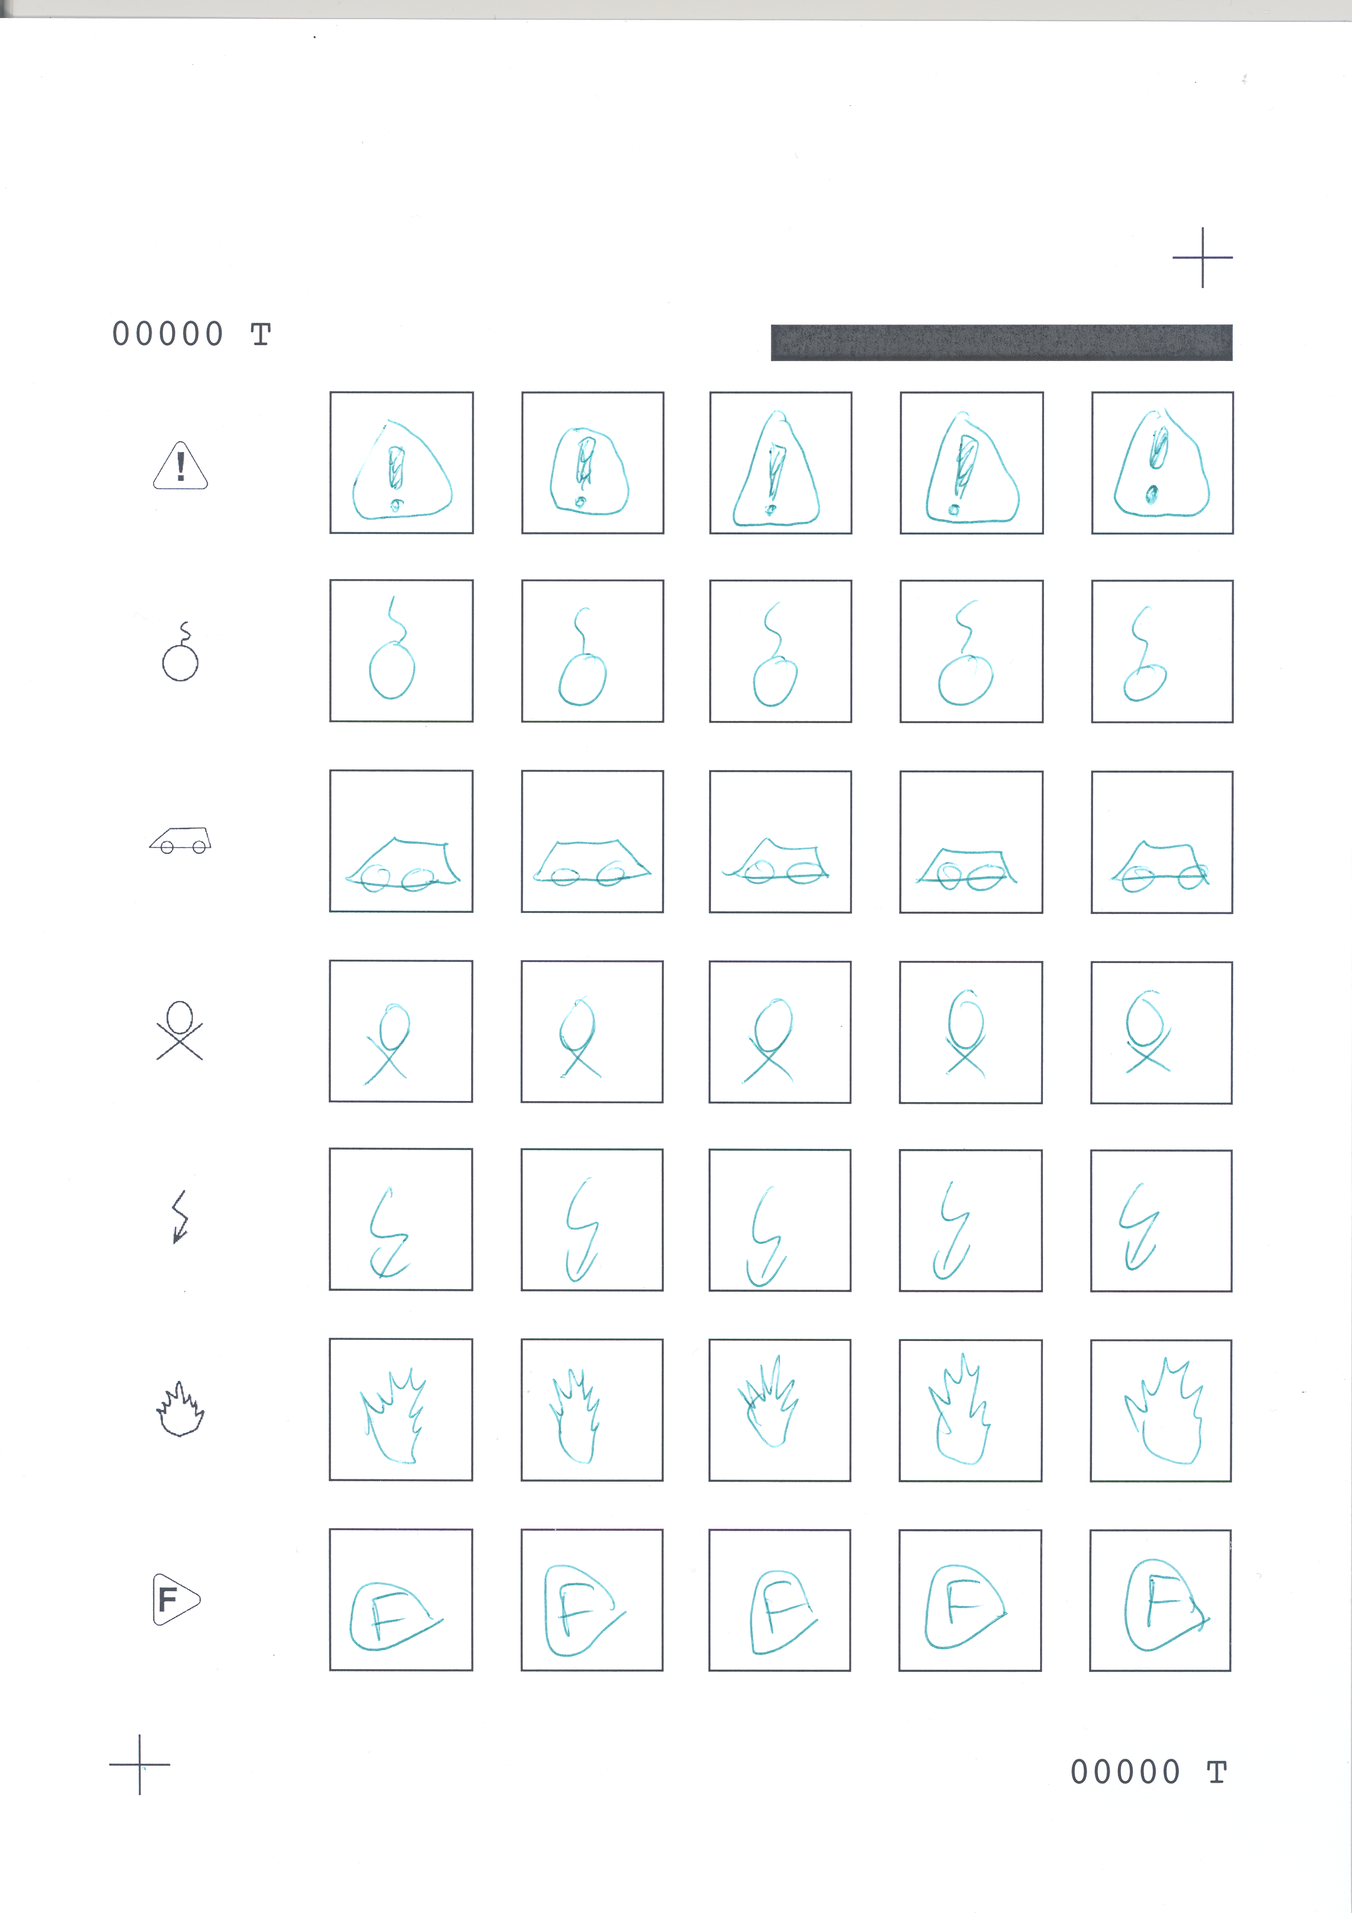
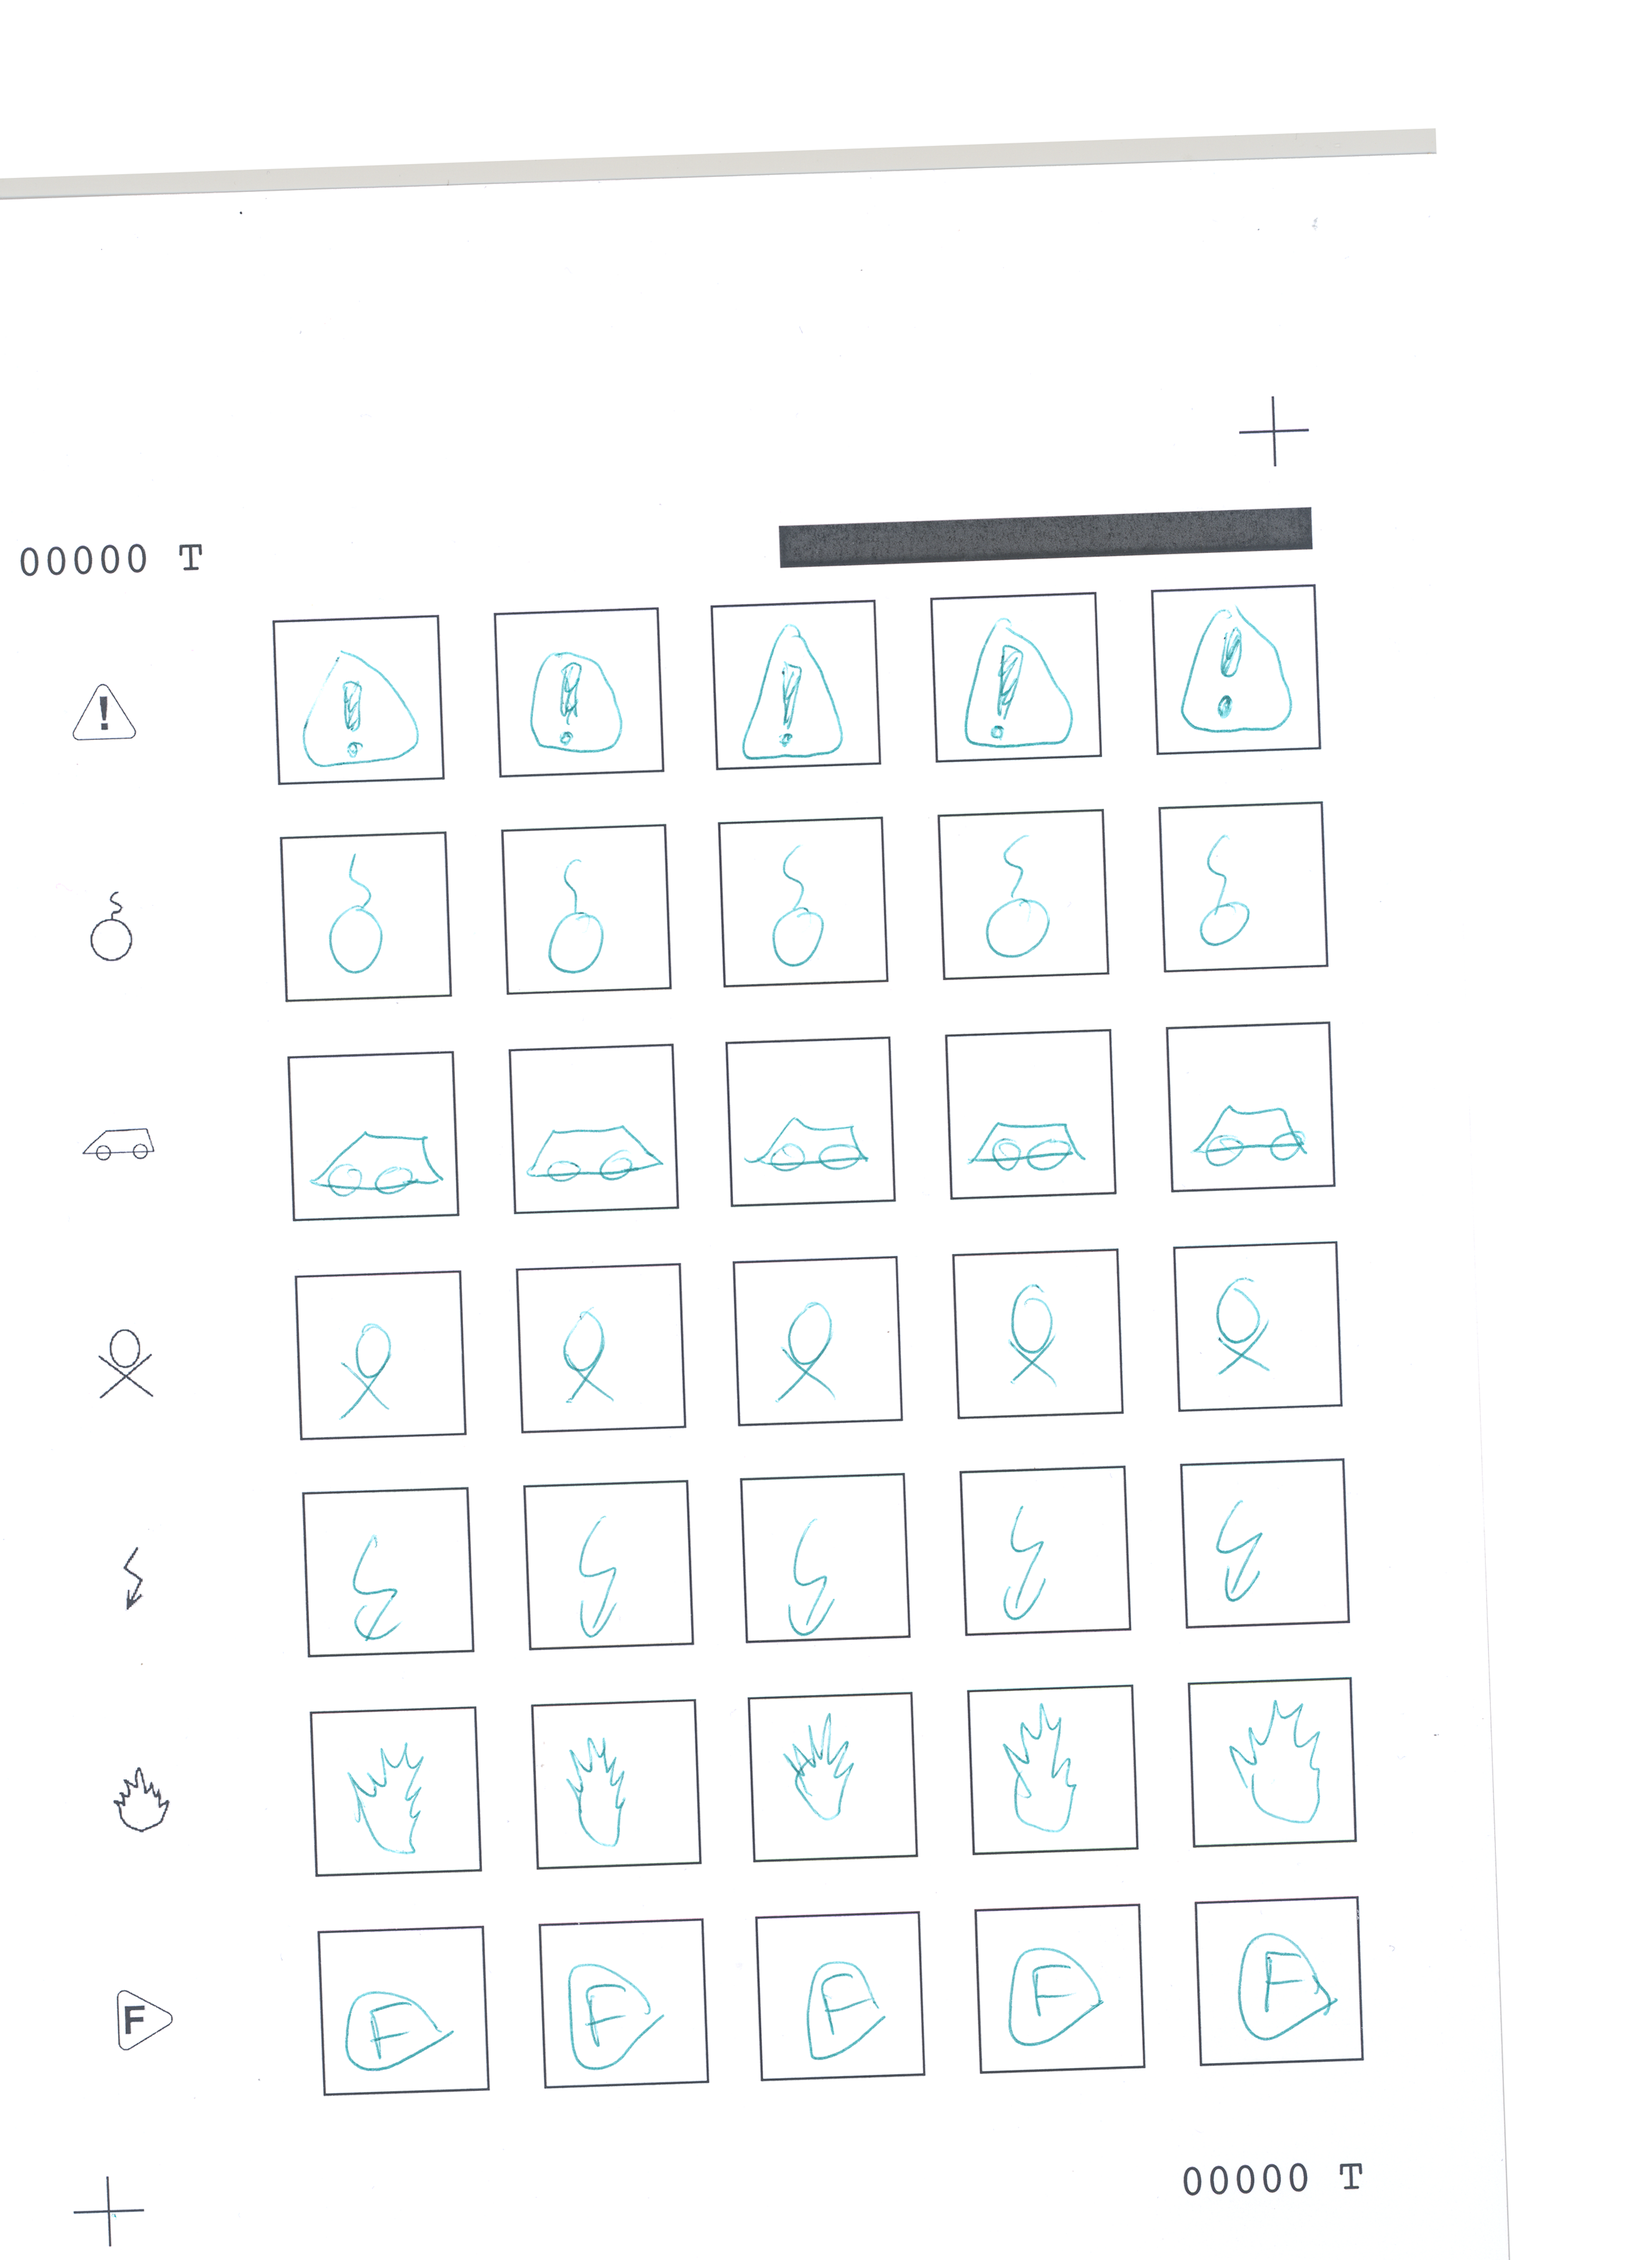
Updated rotation and scale methods.. added exception class thrown when the matching confidence is too low

diff --git a/FormAnalyser.cpp b/FormAnalyser.cpp
@@ -1,4 +1,5 @@
 #include "FormAnalyser.h"
+#include "IconMatchingException.h"
 #include <time.h>
 #include "Logger.h"
 #include <math.h>
@@ -16,6 +17,8 @@ void FormAnalyser::analyse(std::string formPath) {
 	Logger() << "Analysing " << formPath;
 	clock_t beginTime = clock();
 
+	currentImage = formPath.substr(27,5);
+
 	// Extracting the image matrix
 	m_form = cv::imread(formPath);
 
@@ -24,14 +27,13 @@ void FormAnalyser::analyse(std::string formPath) {
 
 	// Retrieving the cross position
 	getSupCross();
-	Logger() << "Top cross position: (" << m_crossSupPosition.x << "," << m_crossSupPosition.y << ")";
 	getSubCross();
-	Logger() << "Bottom cross position: (" << m_crossSubPosition.x << "," << m_crossSubPosition.y << ")";
+	Logger() << "Crosses position determined";
 	
 	// Rotating, scaling and cropping image
 	adjustAngle();
-	double ratio = resize();
-	reposition(ratio);
+	resize();
+	reposition();
 
 	// Converting the RGB image into a gray one to increase the process speed
 	cv::cvtColor(m_form, m_workingForm, CV_RGB2GRAY);
@@ -42,7 +44,7 @@ void FormAnalyser::analyse(std::string formPath) {
 	// extracting every lines and icon boxes
 	handleLines();
 
-	Logger() << "Analysing time: " << (clock() - beginTime)  << " ms";
+	Logger() << "Analysing time: " << (clock() - beginTime)  << " ms\n";
 }
 
 
@@ -50,10 +52,10 @@ void FormAnalyser::getSupCross() {
 	cv::Mat result;
 
 	// Extracting top right corner
-	cv::Mat subMat = m_workingForm(cv::Rect(m_workingForm.cols/2, 0, m_workingForm.cols/2, m_workingForm.rows/3));
+	cv::Mat subMat = m_workingForm(cv::Rect(m_workingForm.cols/2, 0, m_workingForm.cols/2, m_workingForm.rows/4));
 
 	// Seeking top cross
-	cv::matchTemplate(subMat, m_crossTemplate, result, CV_TM_CCOEFF_NORMED);
+	cv::matchTemplate(subMat, m_crossTemplate, result, CV_TM_CCORR_NORMED);
 	minMaxLoc(result, NULL, NULL, NULL, &m_crossSupPosition);
 
 	// Adjusting cross coordinates
@@ -66,10 +68,10 @@ void FormAnalyser::getSubCross() {
 	cv::Mat result;
 
 	// Extracting bottom left corner
-	cv::Mat subMat = m_workingForm(cv::Rect(0, 2*m_workingForm.rows/3, m_workingForm.cols/2, m_workingForm.rows/3));
+	cv::Mat subMat = m_workingForm(cv::Rect(0, 2*m_workingForm.rows/3, m_workingForm.cols/3, m_workingForm.rows/3));
 
 	// Seeking sub cross
-	cv::matchTemplate(subMat, m_crossTemplate, result, CV_TM_CCOEFF_NORMED);
+	cv::matchTemplate(subMat, m_crossTemplate, result, CV_TM_CCORR_NORMED);
 	minMaxLoc(result, NULL, NULL, NULL, &m_crossSubPosition);
 
 	// Adjusting cross coordinates
@@ -91,11 +93,11 @@ void FormAnalyser::setUpTemplates() {
 }
 
 
-void FormAnalyser::reposition(double ratio) {
+void FormAnalyser::reposition() {
 	int deltaX, deltaY, roiX, roiY, roiW, roiH, formX, formY;
 
-	deltaX = m_baseForm.getTopCrossPosition().x-static_cast<int>(m_crossSupPosition.x*ratio);
-	deltaY = m_baseForm.getTopCrossPosition().y-static_cast<int>(m_crossSupPosition.y*ratio);
+	deltaX = m_baseForm.getTopCrossPosition().x-static_cast<int>(m_crossSupPosition.x);
+	deltaY = m_baseForm.getTopCrossPosition().y-static_cast<int>(m_crossSupPosition.y);
 
 	if(deltaX<0) {
 		roiX = -deltaX;
@@ -118,13 +120,15 @@ void FormAnalyser::reposition(double ratio) {
 	roiW = std::min(m_baseForm.getFormWidth(),m_form.cols-roiX)-formX;
 	roiH = std::min(m_baseForm.getFormHeight(),m_form.rows-roiY)-formY;
 	
-	// selecting the ROI
+	// selecting the RO
 	cv::Mat temp = m_form(cv::Rect(roiX, roiY, roiW, roiH));
 
 	// copying ROI in the final image
 	cv::Mat final(m_baseForm.getFormHeight(), m_baseForm.getFormWidth(), m_form.type());
 	temp.copyTo(final(cv::Rect(formX, formY, roiW, roiH)));
     m_form = final;
+
+	Logger() << "Image cropped.";
 }
 
 void FormAnalyser::adjustAngle() {
@@ -145,28 +149,28 @@ void FormAnalyser::adjustAngle() {
 	x1 = x1*cos(angle) - y1*sin(angle);
 	y1 = x1*sin(angle) + y1*cos(angle);
 	x1 += src_center.x;
-	x1 += src_center.y;
+	y1 += src_center.y;
 
 	x2 = m_form.cols-src_center.x;
 	y2 = 0-src_center.y;
 	x2 = x2*cos(angle) - y2*sin(angle);
 	y2 = x2*sin(angle) + y2*cos(angle);
 	x2 += src_center.x;
-	x2 += src_center.y;
+	y2 += src_center.y;
 
 	x3 = m_form.cols-src_center.x;
 	y3 = m_form.rows-src_center.y;
 	x3 = x3*cos(angle) - y3*sin(angle);
 	y3 = x3*sin(angle) + y3*cos(angle);
 	x3 += src_center.x;
-	x3 += src_center.y;
+	y3 += src_center.y;
 
 	x4 = 0-src_center.x;
 	y4 = m_form.rows-src_center.y;
 	x4 = x4*cos(angle) - y4*sin(angle);
 	y4 = x4*sin(angle) + y4*cos(angle);
 	x4 += src_center.x;
-	x4 += src_center.y;
+	y4 += src_center.y;
 
 	//finding extreme values:
 	maxW = static_cast<int>(std::max(abs(x1-x3),abs(x2-x4)));
@@ -179,20 +183,27 @@ void FormAnalyser::adjustAngle() {
 
 	//resizing zone
 	cv::Mat tmp(maxH, maxW, m_form.type());
-    m_form.copyTo(tmp(cv::Rect((maxW-m_form.cols)/2, (maxW-m_form.cols)/2, m_form.cols, m_form.rows)));
+    m_form.copyTo(tmp(cv::Rect((maxW-m_form.cols)/2, (maxH-m_form.rows)/2, m_form.cols, m_form.rows)));
 	src_center.x += (maxW-m_form.cols)/2;
 	src_center.y += (maxH-m_form.rows)/2;
+
+	// updating top cross position
 	m_crossSupPosition.x += (maxW-m_form.cols)/2;
-	m_crossSupPosition.y += (maxW-m_form.cols)/2;
-	m_crossSubPosition.x += (maxW-m_form.cols)/2;
-	m_crossSubPosition.y += (maxW-m_form.cols)/2;
+	m_crossSupPosition.y += (maxH-m_form.rows)/2;
+
 	m_form = tmp;
 
     cv::Mat rot_mat = getRotationMatrix2D(src_center, angle*180/CV_PI, 1.0);
     cv::warpAffine(m_form, m_form, rot_mat, m_form.size());
+
+	// updating bottom cross position
+	cv::cvtColor(m_form, m_workingForm, CV_RGB2GRAY);
+	getSubCross();
+
+	Logger() << "Image rotated by " << angle*180/CV_PI << " degree";
 }
 
-double FormAnalyser::resize() {
+void FormAnalyser::resize() {
 	double dist1, dist2, ratio;
 
 	dist1 = sqrt(static_cast<double>((m_crossSupPosition.x-m_crossSubPosition.x)*(m_crossSupPosition.x-m_crossSubPosition.x) + (m_crossSupPosition.y-m_crossSubPosition.y)*(m_crossSupPosition.y-m_crossSubPosition.y)));
@@ -203,7 +214,15 @@ double FormAnalyser::resize() {
 	cv::Size s2 = cv::Size(static_cast<int>(s.width*ratio), static_cast<int>(s.height*ratio));
 	cv::resize(m_form, m_form, s2);
 
-	return ratio;
+	// updating top cross position
+	m_crossSupPosition.x = static_cast<int>(m_crossSupPosition.x*ratio);
+	m_crossSupPosition.y = static_cast<int>(m_crossSupPosition.y*ratio);
+
+	// updating bottom cross position
+	m_crossSubPosition.x = static_cast<int>(m_crossSubPosition.x*ratio);
+	m_crossSubPosition.y = static_cast<int>(m_crossSubPosition.y*ratio);
+
+	Logger() << "Image resized with a ratio of " << ratio;
 }
 
 void FormAnalyser::handleLines() {
@@ -214,12 +233,17 @@ void FormAnalyser::handleLines() {
 	numLine = m_baseForm.getLineNumber();
 	for(int i=0; i<numLine; i++) {
 		line = m_baseForm.getLine(i);
-		currentClass = findIcon(line->getIconPosition());
-		Logger() << "Current line class: " << currentClass;
 
-		numBox = line->getBoxNumber();
-		for(int j=0;j<numBox;j++) {
-			saveBoxContent(currentClass, line->getBoxPosition(j), i, j);
+		try{
+			currentClass = findIcon(line->getIconPosition());
+			Logger() << "Current line class: " << currentClass;
+
+			numBox = line->getBoxNumber();
+			for(int j=0;j<numBox;j++) {
+				saveBoxContent(currentClass, line->getBoxPosition(j), i, j);
+			}
+		} catch(const IconMatchingException& e) {
+			Logger() << "Couldn't find the icon class of the line " << i << ". Matching confidence too low: " << e.getConfidence();
 		}
 	}
 }
@@ -230,7 +254,7 @@ void FormAnalyser::saveBoxContent(std::string iconClass, cv::Point position, int
     compression_params.push_back(4);
 
 	std::stringstream ss;
-	ss << "images/temp/" << iconClass << "/box_" << i << "_" << j << ".png";
+	ss << "images/temp/" << iconClass << "/" << currentImage << "_" << i << "_" << j << ".png";
 	cv::imwrite(ss.str() ,m_form(cv::Rect(position.x, position.y, m_baseForm.getBoxWidth(), m_baseForm.getBoxHeight())), compression_params);
 }
 
@@ -258,6 +282,8 @@ const std::string& FormAnalyser::findIcon(const cv::Point& roi) {
 			//if(currentVal>0.9) break;
 		}
 	}
-
+	if(maxVal <= 0.5) {
+		throw IconMatchingException(maxVal);
+	}
 	return res->first;
 }

diff --git a/main.cpp b/main.cpp
@@ -8,6 +8,7 @@
 #include <iostream>
 #include <time.h>
 #include "Logger.h"
+#include <omp.h>
 
 int main (int argc, char** argv) {
 
@@ -15,6 +16,7 @@ int main (int argc, char** argv) {
 	FormAnalyser* analyser;
 	IconListParser* parser;
 	BaseFormParser* formParser;
+	clock_t beginTime;
 
 	parser = new IconListParser();
 	parser->parse();
@@ -24,17 +26,14 @@ int main (int argc, char** argv) {
 
 	analyser = new FormAnalyser(parser->getIconList(), formParser->getBaseForm());
 	
-	clock_t beginTime = clock();
- 
-	for(int i=0;i<1;++i) {
+	beginTime = clock();
+	for(int i=0;i<5;++i) {
 		try{
 			ss.str("");
-			ss << "images/database/w000-scans/0000";
-			ss << i << ".png";
-
+			ss << "images/database/w000-scans/0000" << i << ".png";
 			analyser->analyse(ss.str());
 		} catch(std::exception &e) {
-			std::cout<<e.what();
+			Logger() << e.what();
 		}
 
 	}

diff --git a/FormAnalyser.h b/FormAnalyser.h
@@ -14,19 +14,19 @@ class FormAnalyser
 		cv::Point m_crossSubPosition, m_crossSupPosition;
 		std::map<std::string, Icon*> m_iconList;
 		std::map<std::string, cv::Mat> m_iconMatList;
+		std::string currentImage;
 		BaseForm m_baseForm;
 
 	public:
 		FormAnalyser(const std::map<std::string, Icon*>& iconList, const BaseForm& baseForm);
-
 		void analyse(std::string formPath);
 
 	private:
 		void getSupCross();
 		void getSubCross();
-		void reposition(double ratio);
+		void reposition();
 		void adjustAngle();
-		double resize();
+		void resize();
 		void setUpTemplates();
 		void handleLines();
 		void saveBoxContent(std::string iconClass, cv::Point position, int i, int j);

diff --git a/IconMatchingException.h b/IconMatchingException.h
@@ -1,0 +1,14 @@
+#pragma once
+
+#include <string>
+#include "Icon.h"
+
+class IconMatchingException
+{
+	private:
+		double m_confidence;
+
+	public:
+		IconMatchingException(double confidence) : m_confidence(confidence) {}
+		double getConfidence() const {return m_confidence;}
+};
